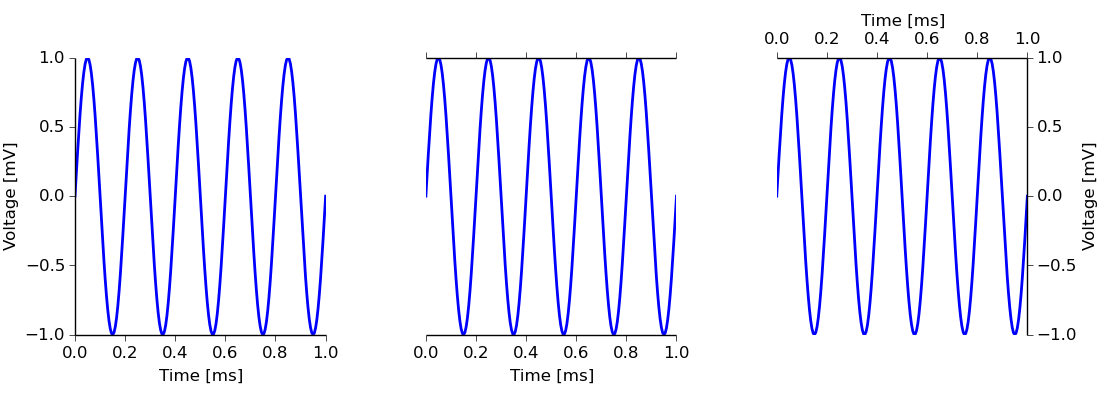
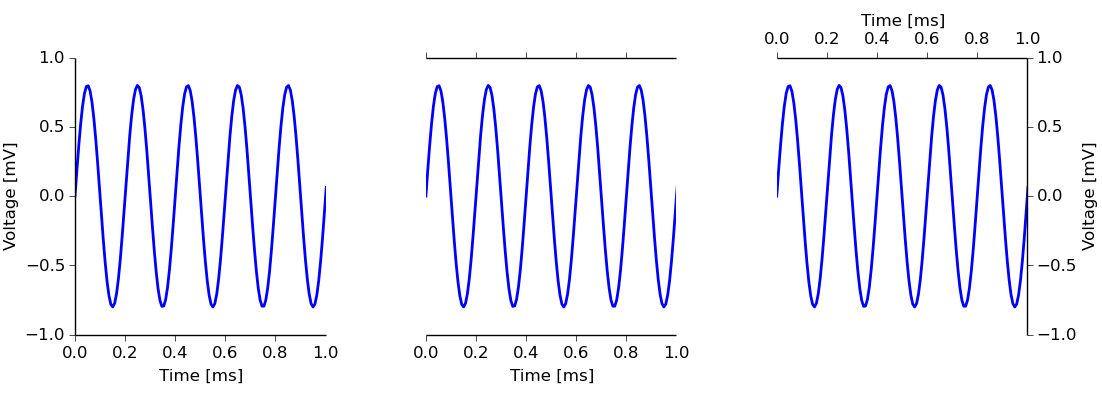
[spines] fixed tick locations

diff --git a/plottools/spines.py b/plottools/spines.py
@@ -63,27 +63,37 @@ def show_spines(ax, spines):
         if len(xspines) == 0:
             ax.xaxis.set_ticks_position('none')
             ax.xaxis.label.set_visible(False)
+            ax.xaxis._orig_major_locator = ax.xaxis.get_major_locator()
             ax.xaxis.set_major_locator(ticker.NullLocator())
-        elif len(xspines) == 1:
-            ax.xaxis.set_ticks_position(xspines[0])
-            ax.xaxis.set_label_position(xspines[0])
-            ax.xaxis.set_major_locator(ticker.AutoLocator())
         else:
-            ax.xaxis.set_ticks_position('both')
-            ax.xaxis.set_label_position('bottom')
-            ax.xaxis.set_major_locator(ticker.AutoLocator())
+            if hasattr(ax.xaxis, '_orig_major_locator'):
+                ax.xaxis.set_major_locator(ax.xaxis._orig_major_locator)
+                delattr(ax.xaxis, '_orig_major_locator')
+            elif isinstance(ax.xaxis.get_major_locator(), ticker.NullLocator):
+                ax.xaxis.set_major_locator(ticker.AutoLocator())
+            if len(xspines) == 1:
+                ax.xaxis.set_ticks_position(xspines[0])
+                ax.xaxis.set_label_position(xspines[0])
+            else:
+                ax.xaxis.set_ticks_position('both')
+                ax.xaxis.set_label_position('bottom')
         if len(yspines) == 0:
             ax.yaxis.set_ticks_position('none')
             ax.yaxis.label.set_visible(False)
+            ax.yaxis._orig_major_locator = ax.yaxis.get_major_locator()
             ax.yaxis.set_major_locator(ticker.NullLocator())
-        elif len(yspines) == 1:
-            ax.yaxis.set_ticks_position(yspines[0])
-            ax.yaxis.set_label_position(yspines[0])
-            ax.yaxis.set_major_locator(ticker.AutoLocator())
         else:
-            ax.yaxis.set_ticks_position('both')
-            ax.yaxis.set_label_position('left')
-            ax.yaxis.set_major_locator(ticker.AutoLocator())
+            if hasattr(ax.yaxis, '_orig_major_locator'):
+                ax.yaxis.set_major_locator(ax.yaxis._orig_major_locator)
+                delattr(ax.yaxis, '_orig_major_locator')
+            elif isinstance(ax.yaxis.get_major_locator(), ticker.NullLocator):
+                ax.yaxis.set_major_locator(ticker.AutoLocator())
+            if len(yspines) == 1:
+                ax.yaxis.set_ticks_position(yspines[0])
+                ax.yaxis.set_label_position(yspines[0])
+            else:
+                ax.yaxis.set_ticks_position('both')
+                ax.yaxis.set_label_position('left')
 
 
 def set_spines_outward(ax, spines, offset=0):
@@ -143,7 +153,9 @@ def set_spines_outward(ax, spines, offset=0):
         for ax in axs:
             for sp in spines_list:
                 if ax.spines[sp].get_visible():
+                    loc = ax.yaxis.get_major_locator()
                     ax.spines[sp].set_position(('outward', offset))
+                    ax.yaxis.set_major_locator(loc)
 
 
 def set_spines_bounds(ax, spines, bounds='full'):

diff --git a/doc/figures/spines.py b/doc/figures/spines.py
@@ -10,18 +10,23 @@ def spines_figures():
     """ Generate figure demonstrating functionality of the spines module.
     """
 
-    def new_figure():
+    def new_figure(fac=0.8, maxx=1, miny=-1, maxy=1, margin='all'):
         plt.rcParams['xtick.direction'] = 'out'
         plt.rcParams['ytick.direction'] = 'out'
         fig, axs = plt.subplots(1, 3, figsize=(28, 10))
-        fig.subplots_adjust(left=7.5, right=7.5, top=3.5, bottom=3.5, wspace=0.4)
+        if margin == 'lb':
+            fig.subplots_adjust(left=7.5, right=1.5, top=0.5, bottom=3.5, wspace=0.4)
+        else:
+            fig.subplots_adjust(left=7.5, right=7.5, top=3.5, bottom=3.5, wspace=0.4)
         for ax in axs:
-            x = np.linspace(0, 1, 200)
-            y = np.sin(2*np.pi*5*x)
+            x = np.linspace(0, 1.5, 200)
+            y = fac*np.sin(2*np.pi*5*x)
             ax.plot(x, y, lw=2)
-            ax.set_xlim(0, 1)
+            ax.set_xlim(0, maxx)
+            ax.set_xticks_delta(0.2)
             ax.set_xlabel('Time [ms]')
-            ax.set_ylim(-1, 1)
+            ax.set_ylim(miny, maxy)
+            ax.set_yticks_delta(0.5)
             ax.set_ylabel('Voltage [mV]')
         return fig, axs
 
@@ -36,9 +41,26 @@ def spines_figures():
     axs[1].show_spines('bt')
     axs[2].show_spines('tr')
     save_fig(fig, 'show')
-    
-    
 
+    fig, axs = new_figure(0.8, 1.1, -0.95, 0.95, 'lb')
+    axs[0].show_spines('lb')
+    axs[0].set_spines_bounds('lb', 'full')
+    axs[1].show_spines('lb')
+    axs[1].set_spines_bounds('lb', 'data')
+    axs[2].show_spines('lb')
+    axs[2].set_spines_bounds('lb', 'ticks')
+    save_fig(fig, 'bounds')
+
+    fig, axs = new_figure(1.0, 1.0, -1, 1, 'lb')
+    axs[0].show_spines('lb')
+    axs[0].set_spines_outward('lb', 0)
+    axs[1].show_spines('lb')
+    axs[1].set_spines_outward('lb', 10)
+    axs[2].show_spines('lb')
+    axs[2].set_spines_outward('lb', -10)
+    save_fig(fig, 'outward')
+    
+    
 if __name__ == "__main__":
     spines_figures()
 
